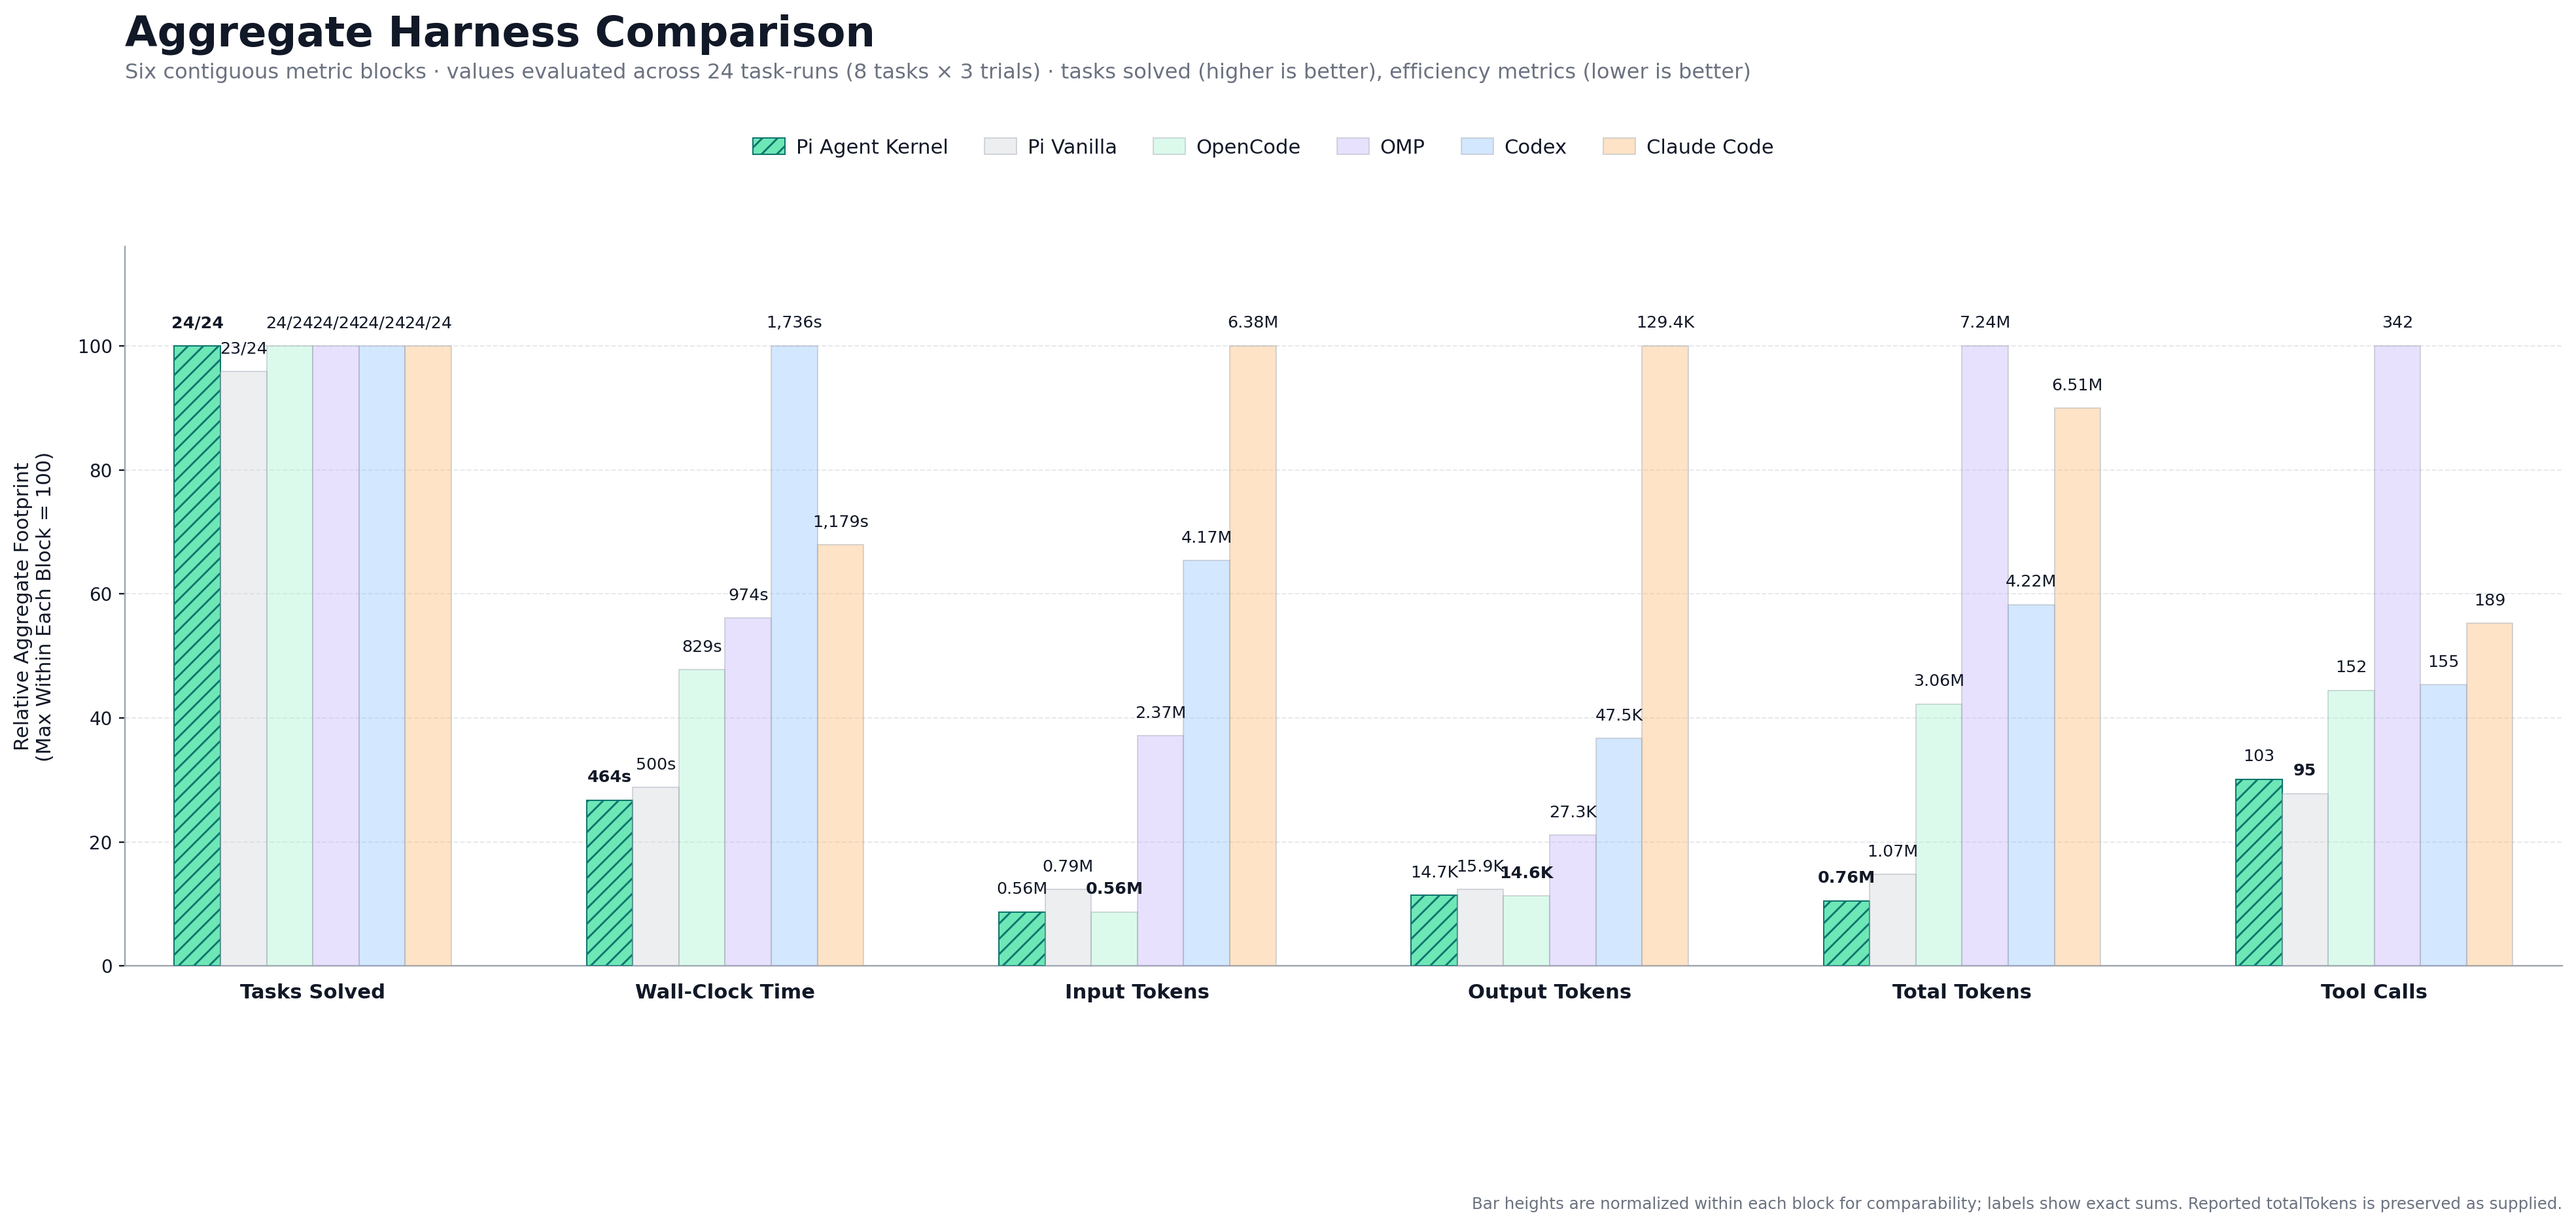
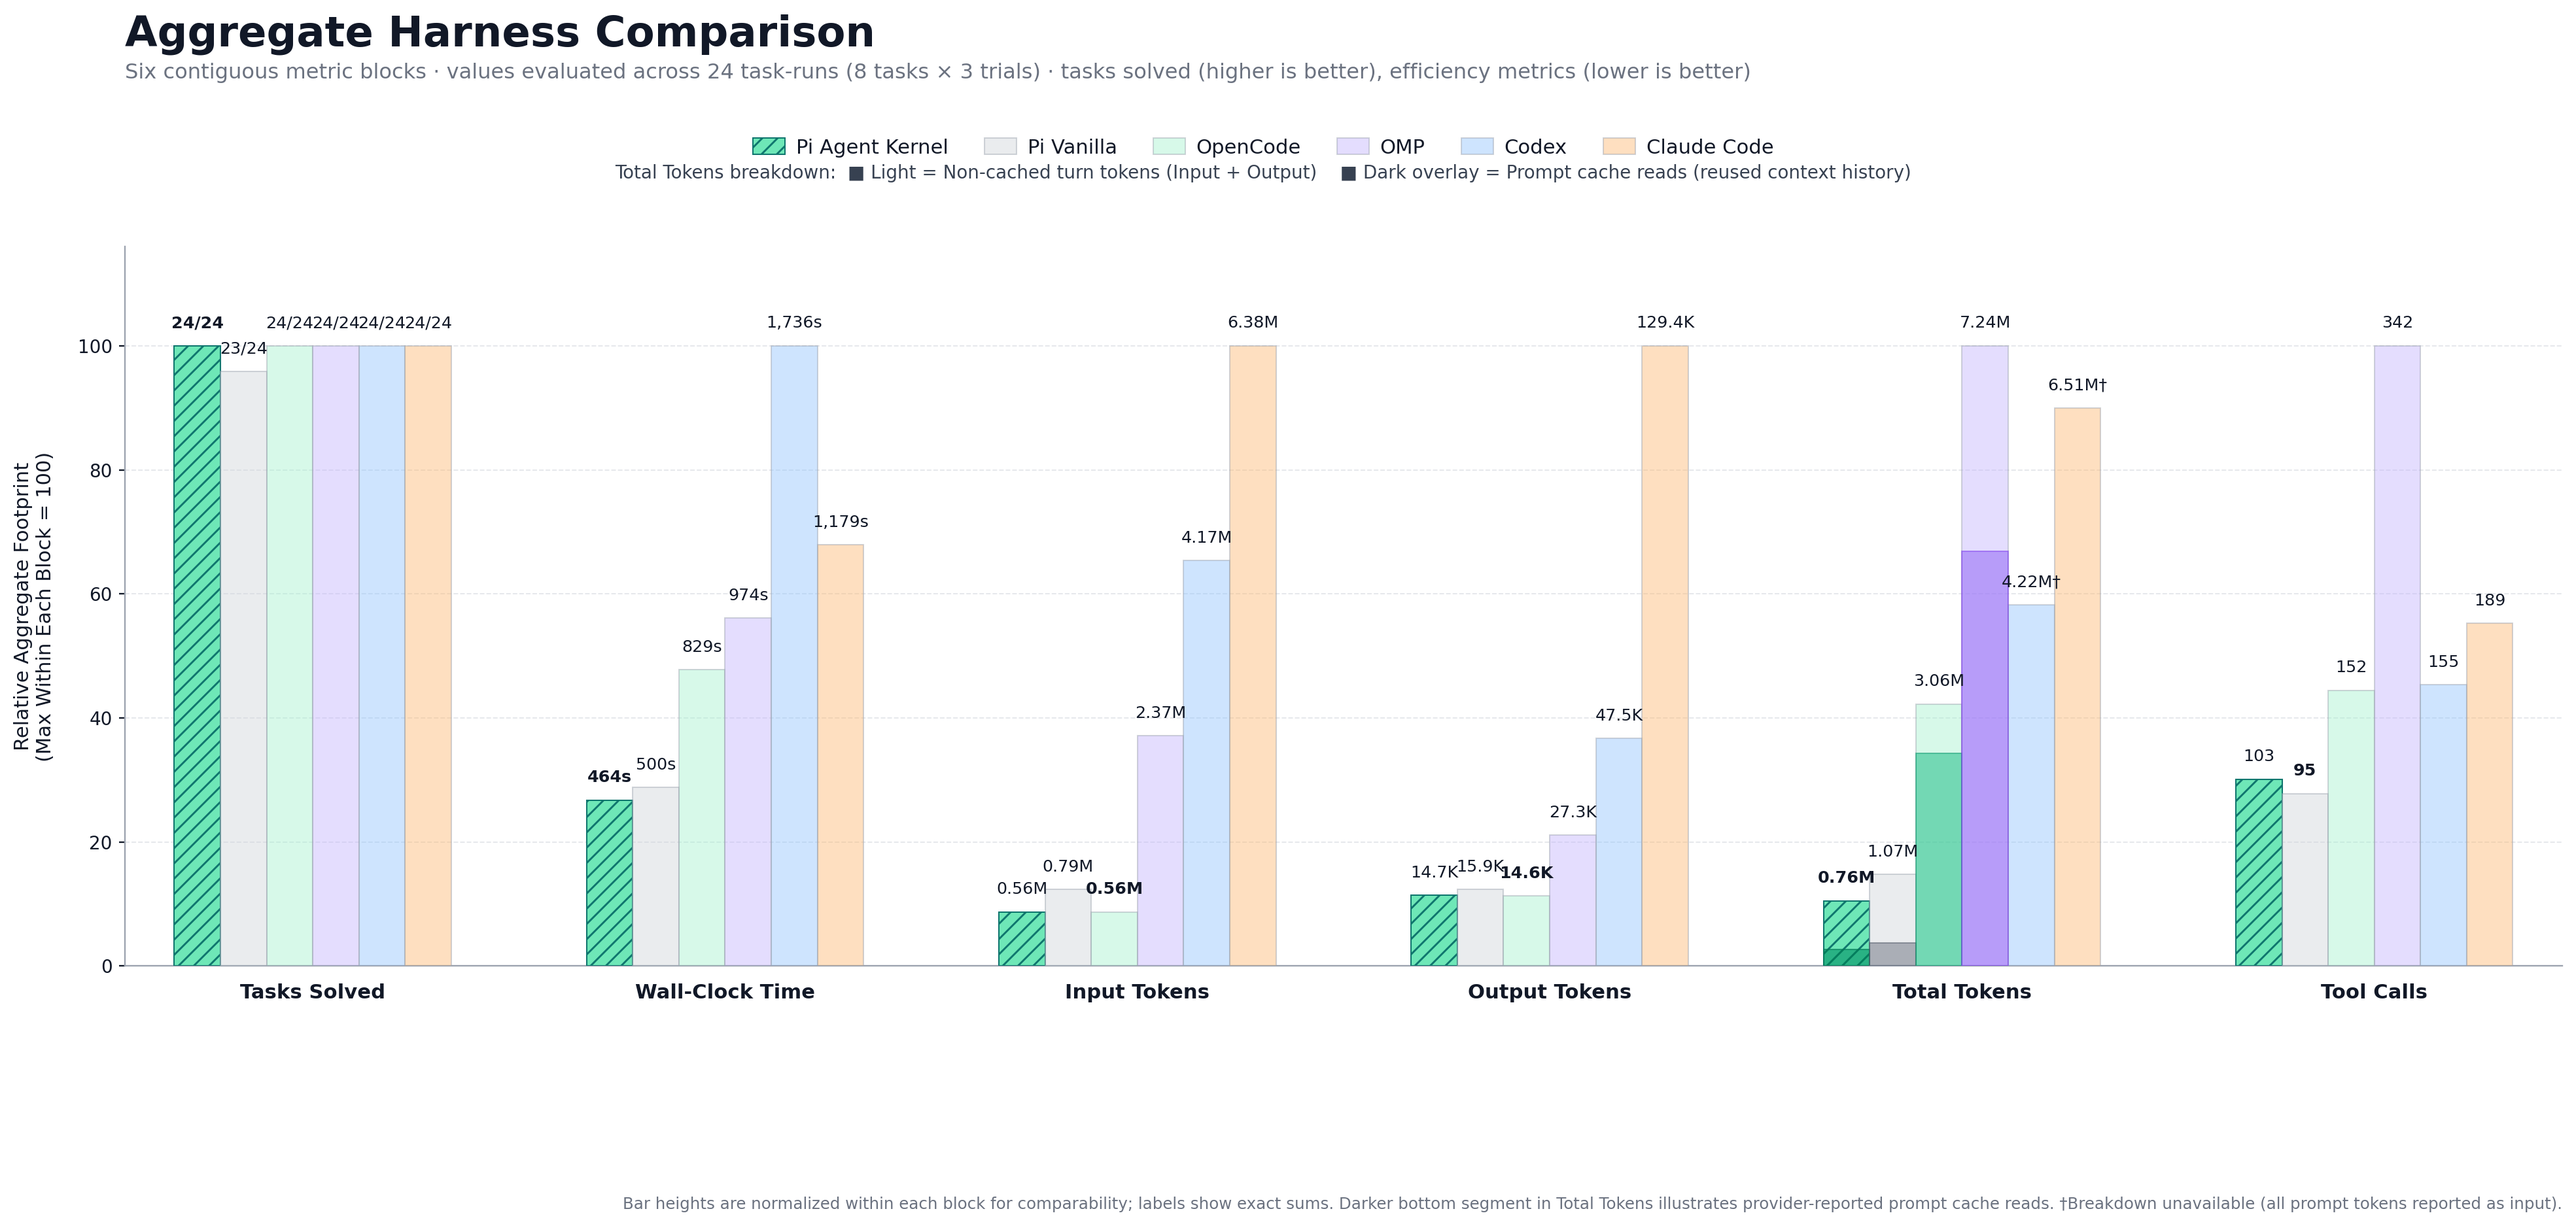
docs: visualize prompt cache reads in benchmark chart and comparison table

diff --git a/README.md b/README.md
@@ -10,18 +10,18 @@ Coding agents waste context when they read entire files to inspect one function,
 
 Evaluating 6 coding agent harnesses across 8 bug fixes (`hono`, `ky`, `zod`, `ufo`, `picomatch`, `fastify`, `uuid`, `p-limit`) with `cx/gpt-6-luna-high` (OmniRoute, concurrency 4, 360s timeout). Pi harnesses report mean values across 3 repeated runs (N=3):
 
-| Harness | Solved | Success | Aggregate Task Time | Input Tokens | Output Tokens | Total Turn Tokens | Tool Calls |
-|---|:---:|:---:|---:|---:|---:|---:|:---:|
-| Pi + Agent-Kernel (N=3) | 8 / 8 | 100% | 7m 43s | 555k | 14.7k | 759k | 104 |
-| Pi (Vanilla) (N=3) | 7.7 / 8 | 95.8% | 8m 20s | 786k | 15.9k | 1.07M | 94 |
-| OpenCode | 8 / 8 | 100% | 13m 49s | 555k | 14.6k | 3.06M | 152 |
-| OMP | 8 / 8 | 100% | 16m 14s | 2.37M | 27.3k | 7.24M | 342 |
-| Claude Code | 8 / 8 | 100% | 19m 39s | 6.38M | 129.4k | 6.51M | 189 |
-| Codex CLI | 8 / 8 | 100% | 28m 56s | 4.17M | 47.5k | 4.22M | 155 |
+| Harness | Solved | Success | Aggregate Task Time | Input Tokens (Uncached) | Prompt Cache Reads | Output Tokens | Total Turn Tokens | Tool Calls |
+|---|:---:|:---:|---:|---:|---:|---:|---:|:---:|
+| Pi + Agent-Kernel (N=3) | 8 / 8 | 100% | 7m 43s | 555k | 189k | 14.7k | 759k | 104 |
+| Pi (Vanilla) (N=3) | 7.7 / 8 | 95.8% | 8m 20s | 786k | 266k | 15.9k | 1.07M | 94 |
+| OpenCode | 8 / 8 | 100% | 13m 49s | 555k | 2.48M | 14.6k | 3.06M | 152 |
+| OMP | 8 / 8 | 100% | 16m 14s | 2.37M | 4.84M | 27.3k | 7.24M | 342 |
+| Claude Code | 8 / 8 | 100% | 19m 39s | 6.38M | —† | 129.4k | 6.51M | 189 |
+| Codex CLI | 8 / 8 | 100% | 28m 56s | 4.17M | —† | 47.5k | 4.22M | 155 |
 
 ![Benchmark Comparison](static/benchmark-comparison.png)
 
-*Prompts describe symptoms and expected behavior without providing the fix. Aggregate Task Time reflects the sum of per-task runtimes under concurrency 4. Total Turn Tokens reflects cumulative provider-reported tokens across all turns, including prompt cache reads (repeated conversational history) and completions; Input Tokens reports non-cached prompt tokens only. Pi + Agent-Kernel solved 24/24 trials (100%), while Pi Vanilla solved 23/24 trials (95.8%).*
+*Prompts describe symptoms and expected behavior without providing the fix. Aggregate Task Time reflects the sum of per-task runtimes under concurrency 4. Total Turn Tokens includes non-cached prompt tokens, prompt cache reads (reused conversational history across turns), and completions. †Prompt cache-read breakdown is not separately reported by Claude Code and Codex CLI telemetry (all prompt tokens are counted in input). Pi + Agent-Kernel solved 24/24 trials (100%), while Pi Vanilla solved 23/24 trials (95.8%).*
 
 ---
 

diff --git a/CHANGELOG.md b/CHANGELOG.md
@@ -10,7 +10,7 @@
 ### Changed
 
 - **System Prompt Workflow Guidance**: Removed the prescriptive `## Execution Workflow` section from `AGENT_KERNEL_SYS_PROMPT.md` (covering pre-flight grounding, root-cause priority, multi-file edit grouping, and exit guidance), retaining tool-selection guidance for `code_search`, `rg`, inspection, and direct-edit lanes.
-- **Benchmark Suite & Chart Reporting**: Evaluated all 6 agent harnesses on `cx/gpt-6-luna-high` (concurrency 4, 360s timeout) across the 8 core bug-fix tasks. Added a `Tasks Solved (N/24)` category to `agent-kernel-benchmark/generate_chart.py` and updated `static/benchmark-comparison.png` alongside `README.md` with matched six-harness evaluation metrics, where Pi Kernel achieved a 100% solve rate across 24 counterbalanced trials (N=3) with 28.9% fewer tokens and 7.4% faster aggregate runtime than Vanilla Pi.
+- **Benchmark Suite & Chart Reporting**: Evaluated all 6 agent harnesses on `cx/gpt-6-luna-high` (concurrency 4, 360s timeout) across the 8 core bug-fix tasks. Added a `Tasks Solved (N/24)` category to `agent-kernel-benchmark/generate_chart.py`, visualized prompt cache-read token breakdown using darker overlapping segments within total tokens, and updated `static/benchmark-comparison.png` alongside `README.md` with matched six-harness evaluation metrics and prompt cache-read accounting. Pi Kernel achieved a 100% solve rate across 24 counterbalanced trials (N=3) with 28.9% fewer tokens and 7.4% faster aggregate runtime than Vanilla Pi.
 
 ### Fixed
 
